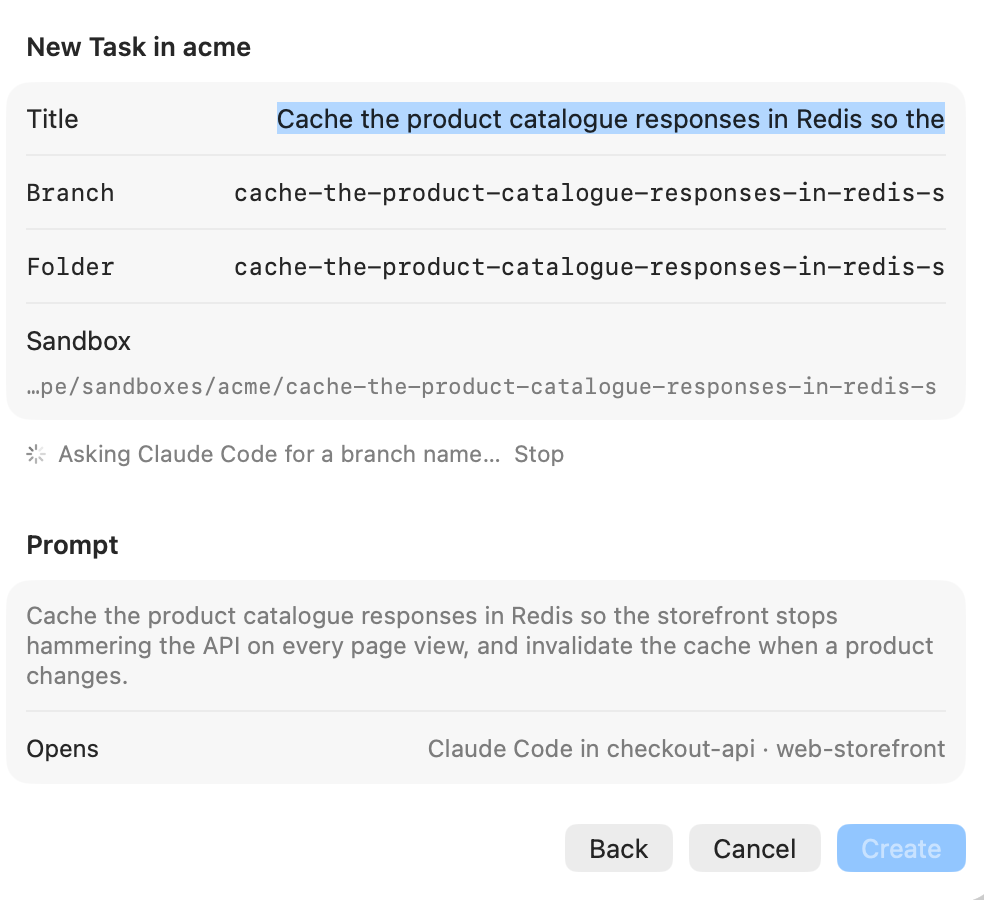
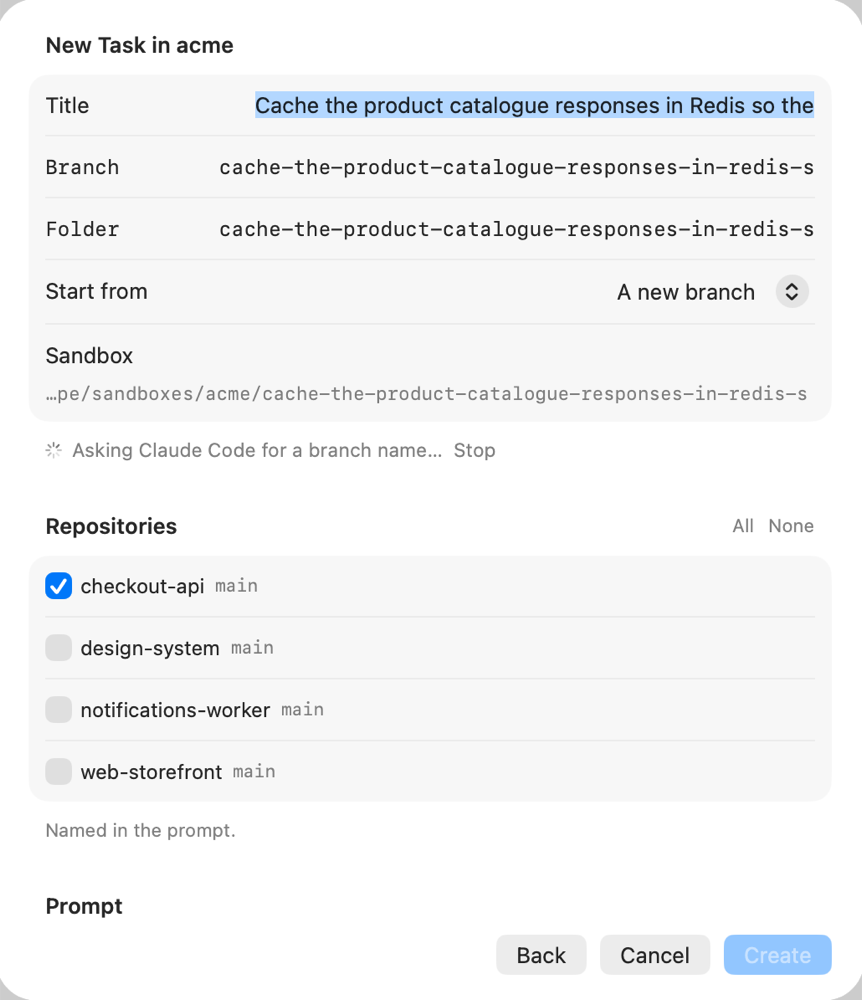
docs: the prompt-first task flow
The sheet no longer asks for repositories, so the screenshots and the tasks page
were describing a step that is gone. Adds what Scope reads out of a prompt (a
pull request, repositories, an existing branch) and what "Start from" does.

Claude-Session: https://claude.ai/code/session_01DiSDwVUwtypWAvtRzzAEZZ

diff --git a/docs/tasks.html b/docs/tasks.html
@@ -33,12 +33,27 @@
 names the branch the way your repository already names branches.</p>
 
 <h2 id="create">Creating a task</h2>
-<p><kbd>⇧⌘T</kbd>, or <b>New Task</b> at the bottom of the sidebar. The first step asks for three things: what
-you want done, which driver should do it, and which repositories it may touch.</p>
+<p><kbd>⇧⌘T</kbd>, or <b>New Task</b> at the bottom of the sidebar. The first step asks for two things: what
+you want done, and which driver should do it. Nothing else — the repositories, the branch and the folder come
+from the prompt.</p>
 <figure class="shot"><img src="assets/img/newtask-prompt.png" alt="Step one: the request, the driver, the repositories." loading="lazy"><figcaption>Step one: the request, the driver, the repositories.</figcaption></figure>
 <p>The prompt is not a throwaway: it opens the first thread of the task, and it is written into
 <code>AGENTS.md</code> as the goal, so a later thread — or a different agent — still knows what this branch is
 for.</p>
+
+<h2 id="reading">What Scope reads out of the prompt</h2>
+<p><b>Continue</b> reads the request before anything is created:</p>
+<table>
+  <tr><th>In the prompt</th><th>What it becomes</th></tr>
+  <tr><td>a pull request — <code>…/pull/6613</code>, <code>owner/repo#6613</code>, or <code>#6613</code> in a single-repository scope</td><td>its repository, its head branch checked out, and the task bound to it</td></tr>
+  <tr><td>a repository of the scope, by folder name, path or <code>owner/repo</code></td><td>the repositories the task sandboxes</td></tr>
+  <tr><td>a branch that already exists</td><td>a start point that continues it instead of branching</td></tr>
+</table>
+<p>Repositories are matched on their <code>origin</code> remote, not on the folder name — a pull request of
+<code>acme-devops/acme-front</code> finds the clone you keep in a folder called <code>front</code>.</p>
+<div class="note"><p>Everything Scope worked out is shown on the second step and stays editable. A wrong
+branch name is a typo; a wrong repository is a worktree in the wrong place, so nothing is created from a
+guess you were not shown.</p></div>
 
 <h2 id="branch">The driver proposes the branch</h2>
 <p>Press <b>Continue</b> and the selected driver runs once, headless, with the repository's recent branch names
@@ -56,6 +71,22 @@ the title from the first line of the prompt, the prefix from the dominant prefix
 <code>feat/</code> / <code>fix/</code> inferred from the wording. The caption says which one you got and why.
 There is no imposed <code>scope/</code> prefix — a branch Scope creates looks like a branch you would have
 created.</p></div>
+
+<h2 id="continue">Continuing existing work</h2>
+<p>The <b>Start from</b> row decides what the sandbox is based on:</p>
+<table>
+  <tr><th>Start from</th><th>Effect</th></tr>
+  <tr><td><b>A new branch</b></td><td>the proposed branch, off <code>origin/&lt;default&gt;</code> — the usual case</td></tr>
+  <tr><td><b>#6613 …</b></td><td>the pull request's head is checked out; a fork's head becomes <code>pr/6613</code></td></tr>
+  <tr><td><b>an existing branch</b></td><td>that branch is checked out, local copy first, <code>origin/</code> otherwise</td></tr>
+</table>
+<p>In the last two the branch <i>is</i> the start point, so the Branch field goes read-only: nothing is
+created, the work continues where it was. A pull request lives in one repository, so a task on one sandboxes
+that repository alone. Starting a task on a pull request Scope already has a task for offers that task
+instead of a second sandbox.</p>
+<div class="note warn"><p>A branch can only live in one working tree. If the branch you start from is already
+checked out — in the base clone, or in another task — Scope says so, and names the checkout holding it,
+rather than letting git fail.</p></div>
 
 <h2 id="sandboxes">Sandboxes</h2>
 <p><b>Create</b> makes, for every selected repository, a git worktree on the task branch:</p>
@@ -92,10 +123,11 @@ profile says which.</p>
 not merged. Scope prunes stale worktrees on every launch.</p>
 
 <h2 id="from-pr">Starting from a pull request</h2>
-<p>The <b>PRs</b> tab lists the open pull requests of a repository (through <code>gh</code>). Opening one as a
-task creates the sandbox on the PR's head branch — including a fork's head — so you can review and push back
-without touching your checkout.</p>
-</main><aside class="toc"><strong>On this page</strong><a class="lvl2" href="#create">Creating a task</a><a class="lvl2" href="#branch">The driver proposes the branch</a><a class="lvl2" href="#sandboxes">Sandboxes</a><a class="lvl2" href="#threads">Threads inside a task</a><a class="lvl2" href="#context">AGENTS.md</a><a class="lvl2" href="#lifecycle">Archiving and closing</a><a class="lvl2" href="#from-pr">Starting from a pull request</a></aside></div>
+<p>Two ways in, one result. Name the pull request in the prompt, or open it from the <b>PRs</b> tab, which
+lists the open pull requests of a repository through <code>gh</code>. Either way the sandbox sits on the PR's
+head branch — including a fork's head — the task is bound to the pull request, and you review and push back
+without touching your own checkout.</p>
+</main><aside class="toc"><strong>On this page</strong><a class="lvl2" href="#create">Creating a task</a><a class="lvl2" href="#reading">What Scope reads out of the prompt</a><a class="lvl2" href="#branch">The driver proposes the branch</a><a class="lvl2" href="#continue">Continuing existing work</a><a class="lvl2" href="#sandboxes">Sandboxes</a><a class="lvl2" href="#threads">Threads inside a task</a><a class="lvl2" href="#context">AGENTS.md</a><a class="lvl2" href="#lifecycle">Archiving and closing</a><a class="lvl2" href="#from-pr">Starting from a pull request</a></aside></div>
 <footer class="footer"><div class="footer-inner">
   <span>Scope — a control room for CLI code agents.</span>
   <a href="https://github.com/maastrich/scope">Source</a>

diff --git a/scripts/build-docs.py b/scripts/build-docs.py
@@ -345,12 +345,27 @@ TASKS = """
 names the branch the way your repository already names branches.</p>
 
 <h2 id="create">Creating a task</h2>
-<p><kbd>⇧⌘T</kbd>, or <b>New Task</b> at the bottom of the sidebar. The first step asks for three things: what
-you want done, which driver should do it, and which repositories it may touch.</p>
+<p><kbd>⇧⌘T</kbd>, or <b>New Task</b> at the bottom of the sidebar. The first step asks for two things: what
+you want done, and which driver should do it. Nothing else — the repositories, the branch and the folder come
+from the prompt.</p>
 FIG_PROMPT
 <p>The prompt is not a throwaway: it opens the first thread of the task, and it is written into
 <code>AGENTS.md</code> as the goal, so a later thread — or a different agent — still knows what this branch is
 for.</p>
+
+<h2 id="reading">What Scope reads out of the prompt</h2>
+<p><b>Continue</b> reads the request before anything is created:</p>
+<table>
+  <tr><th>In the prompt</th><th>What it becomes</th></tr>
+  <tr><td>a pull request — <code>…/pull/6613</code>, <code>owner/repo#6613</code>, or <code>#6613</code> in a single-repository scope</td><td>its repository, its head branch checked out, and the task bound to it</td></tr>
+  <tr><td>a repository of the scope, by folder name, path or <code>owner/repo</code></td><td>the repositories the task sandboxes</td></tr>
+  <tr><td>a branch that already exists</td><td>a start point that continues it instead of branching</td></tr>
+</table>
+<p>Repositories are matched on their <code>origin</code> remote, not on the folder name — a pull request of
+<code>acme-devops/acme-front</code> finds the clone you keep in a folder called <code>front</code>.</p>
+<div class="note"><p>Everything Scope worked out is shown on the second step and stays editable. A wrong
+branch name is a typo; a wrong repository is a worktree in the wrong place, so nothing is created from a
+guess you were not shown.</p></div>
 
 <h2 id="branch">The driver proposes the branch</h2>
 <p>Press <b>Continue</b> and the selected driver runs once, headless, with the repository's recent branch names
@@ -368,6 +383,22 @@ the title from the first line of the prompt, the prefix from the dominant prefix
 <code>feat/</code> / <code>fix/</code> inferred from the wording. The caption says which one you got and why.
 There is no imposed <code>scope/</code> prefix — a branch Scope creates looks like a branch you would have
 created.</p></div>
+
+<h2 id="continue">Continuing existing work</h2>
+<p>The <b>Start from</b> row decides what the sandbox is based on:</p>
+<table>
+  <tr><th>Start from</th><th>Effect</th></tr>
+  <tr><td><b>A new branch</b></td><td>the proposed branch, off <code>origin/&lt;default&gt;</code> — the usual case</td></tr>
+  <tr><td><b>#6613 …</b></td><td>the pull request's head is checked out; a fork's head becomes <code>pr/6613</code></td></tr>
+  <tr><td><b>an existing branch</b></td><td>that branch is checked out, local copy first, <code>origin/</code> otherwise</td></tr>
+</table>
+<p>In the last two the branch <i>is</i> the start point, so the Branch field goes read-only: nothing is
+created, the work continues where it was. A pull request lives in one repository, so a task on one sandboxes
+that repository alone. Starting a task on a pull request Scope already has a task for offers that task
+instead of a second sandbox.</p>
+<div class="note warn"><p>A branch can only live in one working tree. If the branch you start from is already
+checked out — in the base clone, or in another task — Scope says so, and names the checkout holding it,
+rather than letting git fail.</p></div>
 
 <h2 id="sandboxes">Sandboxes</h2>
 <p><b>Create</b> makes, for every selected repository, a git worktree on the task branch:</p>
@@ -404,9 +435,10 @@ profile says which.</p>
 not merged. Scope prunes stale worktrees on every launch.</p>
 
 <h2 id="from-pr">Starting from a pull request</h2>
-<p>The <b>PRs</b> tab lists the open pull requests of a repository (through <code>gh</code>). Opening one as a
-task creates the sandbox on the PR's head branch — including a fork's head — so you can review and push back
-without touching your checkout.</p>
+<p>Two ways in, one result. Name the pull request in the prompt, or open it from the <b>PRs</b> tab, which
+lists the open pull requests of a repository through <code>gh</code>. Either way the sandbox sits on the PR's
+head branch — including a fork's head — the task is bound to the pull request, and you review and push back
+without touching your own checkout.</p>
 """
 
 REVIEW = """
